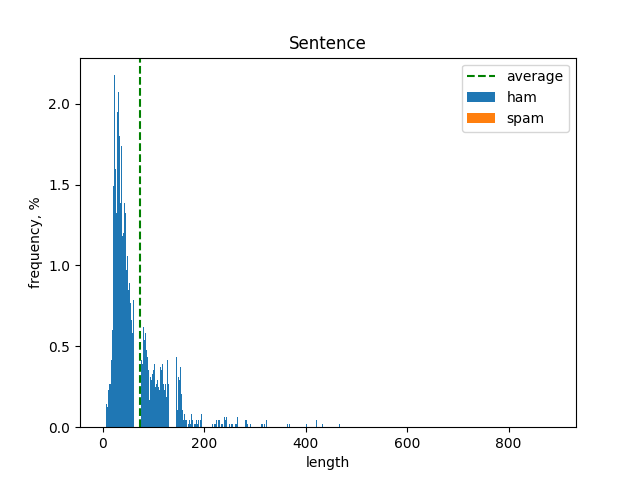
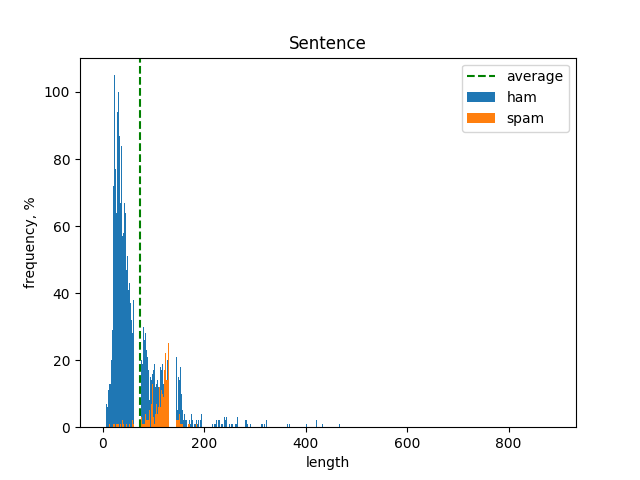
Update diagrams

diff --git a/lab1/graphics2.py b/lab1/graphics2.py
@@ -6,13 +6,12 @@ import pandas as pd
 
 ham_sentence_df = pd.read_csv(r'out\ham\ham_sentence_frequency.csv')
 
-ham_sentence_df['Percent'] = (ham_sentence_df['0'] / ham_sentence_df['0'].sum()) * 100
+#ham_sentence_df['Percent'] = (ham_sentence_df['0'] / ham_sentence_df['0'].sum()) * 100
 
-print(ham_sentence_df['Percent'])
 
 spam_sentence_df = pd.read_csv(r'out\spam\spam_sentence_frequency.csv')
 
-spam_sentence_df['Percent'] = (round(spam_sentence_df['0'] / spam_sentence_df['0'].sum())) * 100
+#spam_sentence_df['Percent'] = (round(spam_sentence_df['0'] / spam_sentence_df['0'].sum())) * 100
 
 mean_ham_df = pd.read_csv(r'out\ham\ham.csv')
 mean_spam_df = pd.read_csv(r'out\spam\spam.csv')
@@ -24,8 +23,8 @@ mean_sentence = round(mean_sentence_df['Length'].mean())
 
 plt.title('Sentence')
 
-plt.bar(ham_sentence_df['Length'], ham_sentence_df['Percent'])
-plt.bar(spam_sentence_df['Length'], spam_sentence_df['Percent'])
+plt.bar(ham_sentence_df['Length'], ham_sentence_df['0'])
+plt.bar(spam_sentence_df['Length'], spam_sentence_df['0'])
 plt.axvline(x=mean_sentence, linestyle='--', color="Green")
 plt.xlabel('length')
 plt.ylabel('frequency, %')

diff --git a/lab1/graphics1.py b/lab1/graphics1.py
@@ -7,11 +7,11 @@ import pandas as pd
 # Read file ham_length_frequency
 ham_word_df = pd.read_csv(r'out\ham\ham_groupby_length_frequency.csv')
 
-ham_word_df['Percent'] = (ham_word_df['Frequency'] / ham_word_df['Frequency'].sum()) * 100
+#ham_word_df['Percent'] = (ham_word_df['Frequency'] / ham_word_df['Frequency'].sum()) * 100
 
 spam_word_df = pd.read_csv(r'out\spam\spam_groupby_length_frequency.csv')
 
-spam_word_df['Percent'] = (spam_word_df['Frequency'] / spam_word_df['Frequency'].sum()) * 100
+#spam_word_df['Percent'] = (spam_word_df['Frequency'] / spam_word_df['Frequency'].sum()) * 100
 
 
 mean_ham_df = pd.read_csv(r'out\ham\ham_length_frequency.csv')
@@ -23,8 +23,8 @@ mean_word_df = pd.concat([mean_ham_df, mean_spam_df])
 mean_word = round(mean_word_df['Length'].mean())
 
 plt.title('Words')
-plt.bar(ham_word_df['Length'], ham_word_df['Percent'])
-plt.bar(spam_word_df['Length'], spam_word_df['Percent'])
+plt.bar(ham_word_df['Length'], ham_word_df['Frequency'])
+plt.bar(spam_word_df['Length'], spam_word_df['Frequency'])
 plt.axvline(x=mean_word, linestyle='--', color="Green")
 plt.xlabel('length')
 plt.ylabel('frequency, %')
